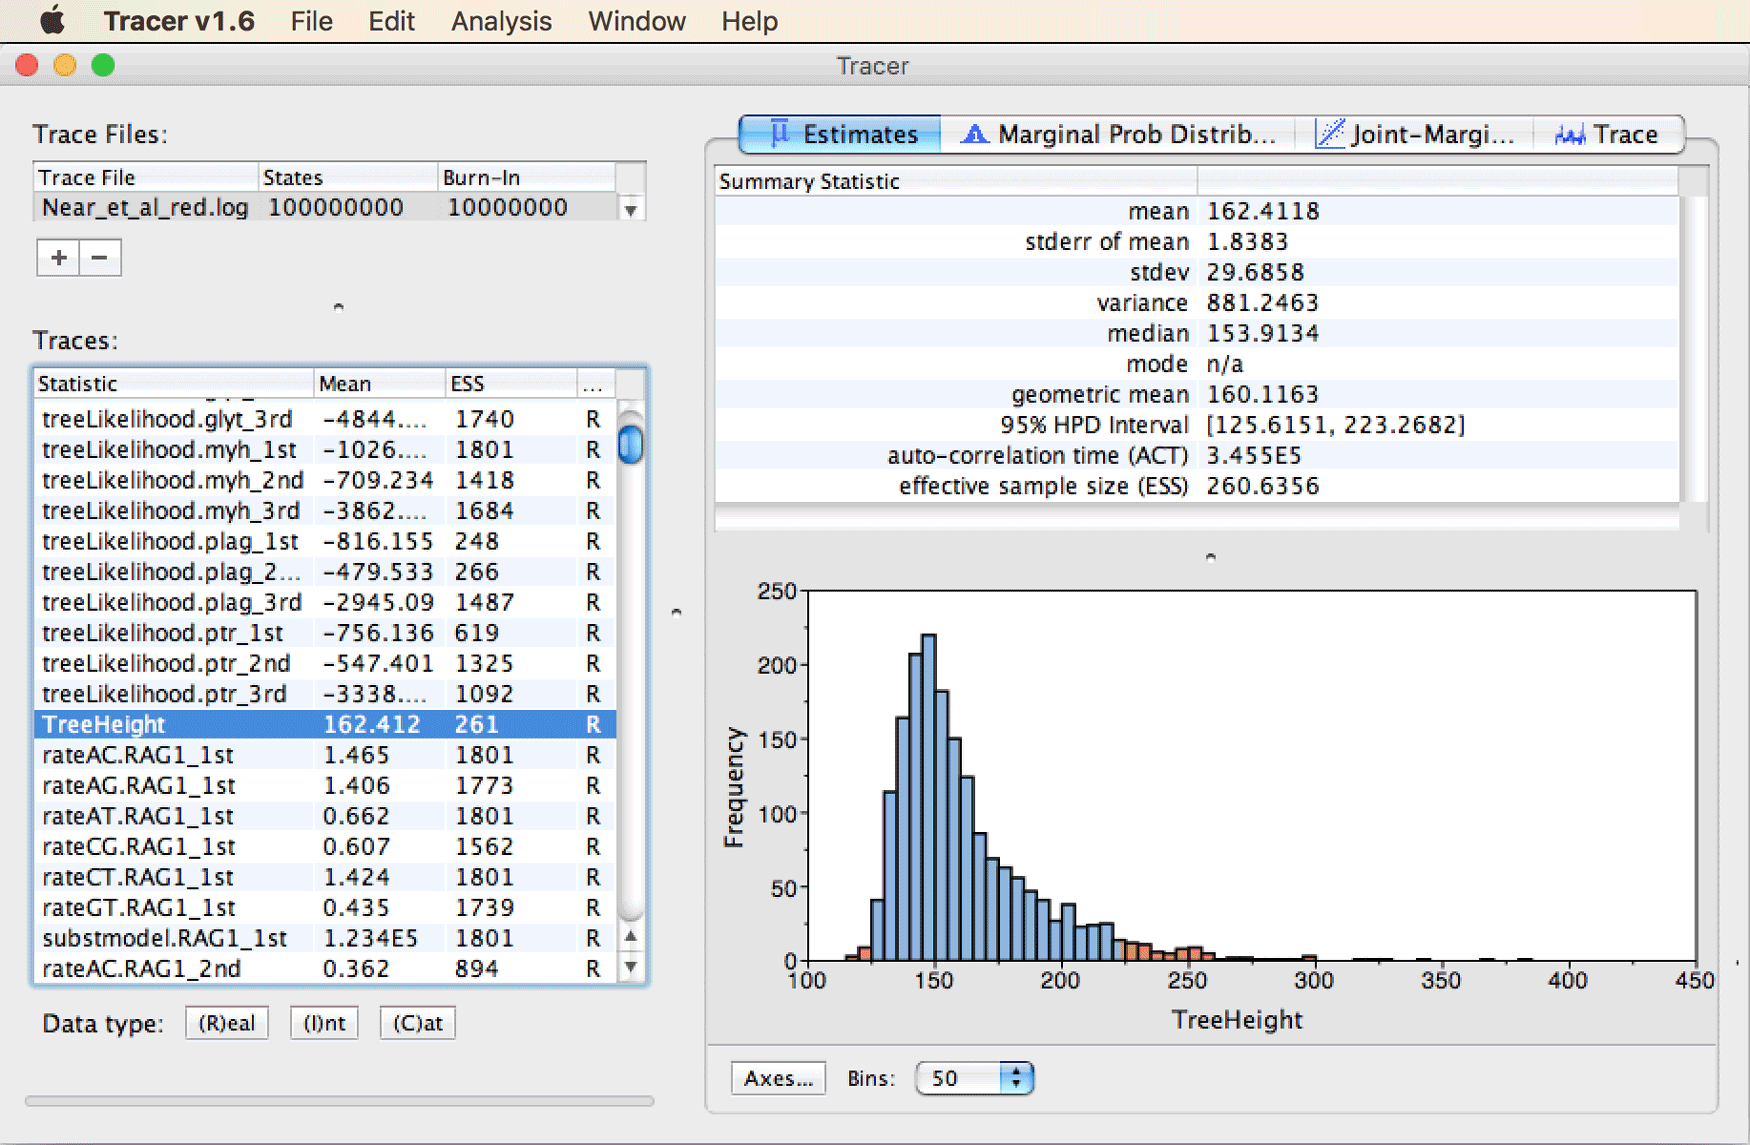
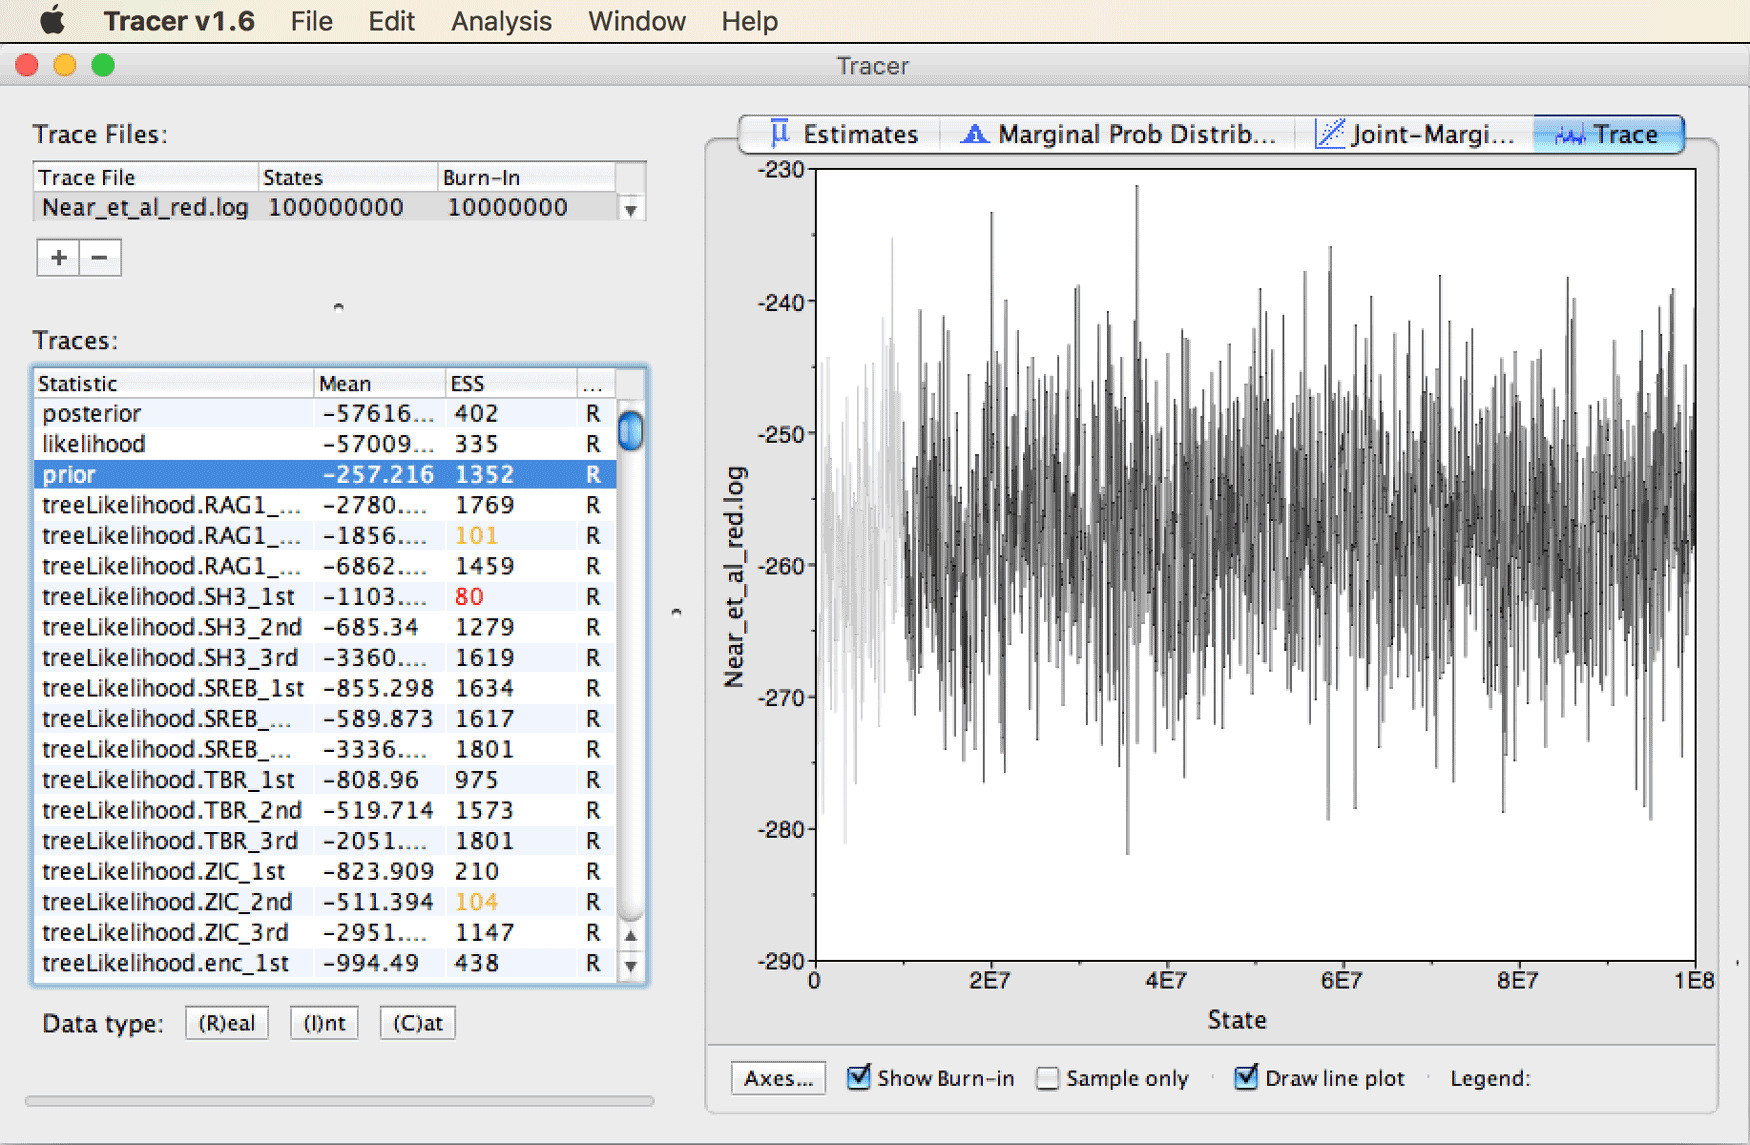
Updates to figures and README

diff --git a/README.md b/README.md
@@ -412,7 +412,7 @@ Depending on the speed of your computer, this analysis will take half a day or l
 
 ### Interpreting the analysis results
 
-We are now going to use the program Tracer to assess stationarity of the MCMC chain produced by the analyses with CladeAge.
+We are now going to use the program Tracer to assess stationarity of the MCMC produced by the analyses with CladeAge.
 
 > Open Tracer and the log file `Near_et_al_red.log` resulting from the analysis with CladeAge.
 
@@ -428,14 +428,26 @@ The Tracer window should then look as shown in the next screenshot.
 
 We'll ignore those parameters of the bModelTest model named "hasEqualFreqs...". Besides these, the lowest ESS values are probably around 80, indicating that the chain is approaching stationarity, but that it should be run for more iterations for a complete and publishable analysis. Nevertheless, the degree of stationarity appears to be sufficient for our interpretation here.
 
-> To see a good example of the "hairy caterpillar" trace pattern indicating stationarity, click on "prior" in the list of parameters and on the tab for "Trace" in the top right of the window.
+> With "posterior" selected in the list of parameters, click on "Trace" in the top right of the window.
 
-You should see a trace as shown below.
+You should see that after a steep increase at the very beginning of the MCMC, the posterior has remained more or less stationary after state 1E7 (10 million).
 
 <figure>
 	<a id="fig:tracer2"></a>
 	<img style="width:80%;" src="figures/tracer2.png" alt="BEAST">
 	<figcaption>Figure 23: Analyzing results with Tracer.</figcaption>
+</figure>
+
+This suggest that considering the first 10% of the chain as "burn-in" is appropriate for this analysis.
+
+> To see a better example of a "hairy caterpillar" trace pattern indicating good stationarity, click on "prior" in the list of parameters and on the tab for "Trace" in the top right of the window.
+
+You should see a trace as shown below.
+
+<figure>
+	<a id="fig:tracer3"></a>
+	<img style="width:80%;" src="figures/tracer3.png" alt="BEAST">
+	<figcaption>Figure 24: Analyzing results with Tracer.</figcaption>
 </figure>
 
 Note that in principle all traces should look similar to this pattern, with ESS values greater than 200, once the chain is fully stationary.
@@ -449,9 +461,9 @@ Note that in principle all traces should look similar to this pattern, with ESS 
 You'll see that this divergence event was estimated around 65 Ma, with a range of uncertainty between around 55 Ma and 75 Ma, as shown in the next screenshot.
 
 <figure>
-	<a id="fig:tracer4"></a>
-	<img style="width:80%;" src="figures/tracer4.png" alt="BEAST">
-	<figcaption>Figure 24: Analyzing results with Tracer.</figcaption>
+	<a id="fig:tracer5"></a>
+	<img style="width:80%;" src="figures/tracer5.png" alt="BEAST">
+	<figcaption>Figure 25: Analyzing results with Tracer.</figcaption>
 </figure>
 
 > Finally, select the speciation-rate parameter named "BDBirthRate" from the list on the left to see the summary statistics for this parameter.
@@ -459,9 +471,9 @@ You'll see that this divergence event was estimated around 65 Ma, with a range o
 These should look similar to those shown in the screenshot below.
 
 <figure>
-	<a id="fig:tracer5"></a>
-	<img style="width:80%;" src="figures/tracer5.png" alt="BEAST">
-	<figcaption>Figure 25: Analyzing results with Tracer.</figcaption>
+	<a id="fig:tracer6"></a>
+	<img style="width:80%;" src="figures/tracer6.png" alt="BEAST">
+	<figcaption>Figure 26: Analyzing results with Tracer.</figcaption>
 </figure>
 
 **Question 2:** How do these estimates compare to those that we used to define prior densities for fossil calibrations with the CladeAge approach? [(see answer)](#q2)
@@ -473,8 +485,8 @@ These should look similar to those shown in the screenshot below.
 <a name="q1"></a>
 
 - **Question 1:** When you select "TreeHeight" in the list on the left and click on the tab for "Estimates" in the top right, you'll see the following information:<figure>
-	<a id="fig:tracer3"></a>
-	<img style="width:80%;" src="figures/tracer3.png" alt="BEAST">
+	<a id="fig:tracer4"></a>
+	<img style="width:80%;" src="figures/tracer4.png" alt="BEAST">
 	<figcaption>Figure A1: Analyzing results with Tracer.</figcaption>
 </figure>As specified in the summary statistics on the top right part of the window, the mean estimate for the age of the first split should be around 160 Ma. The confidence interval is reported as the "95% HPD interval", the highest-posterior-density interval containing 95% of the posterior distribution. In other words, this is the shortest interval within which 95% of the samples taken by the MCMC can be found. In this case, it is relatively wide, ranging from around 125 Ma to about 225 Ma.
 
